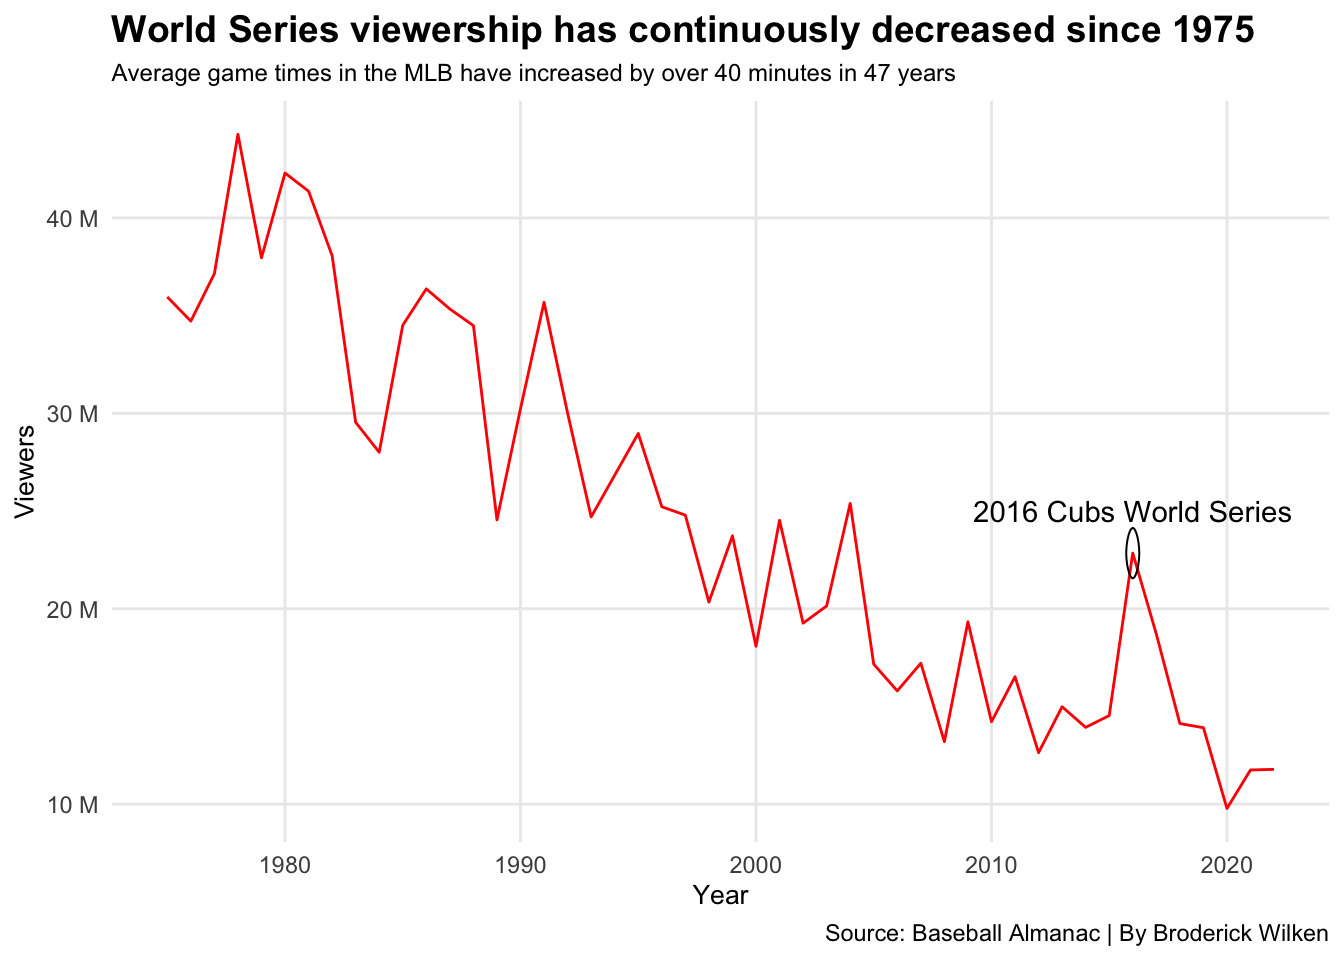
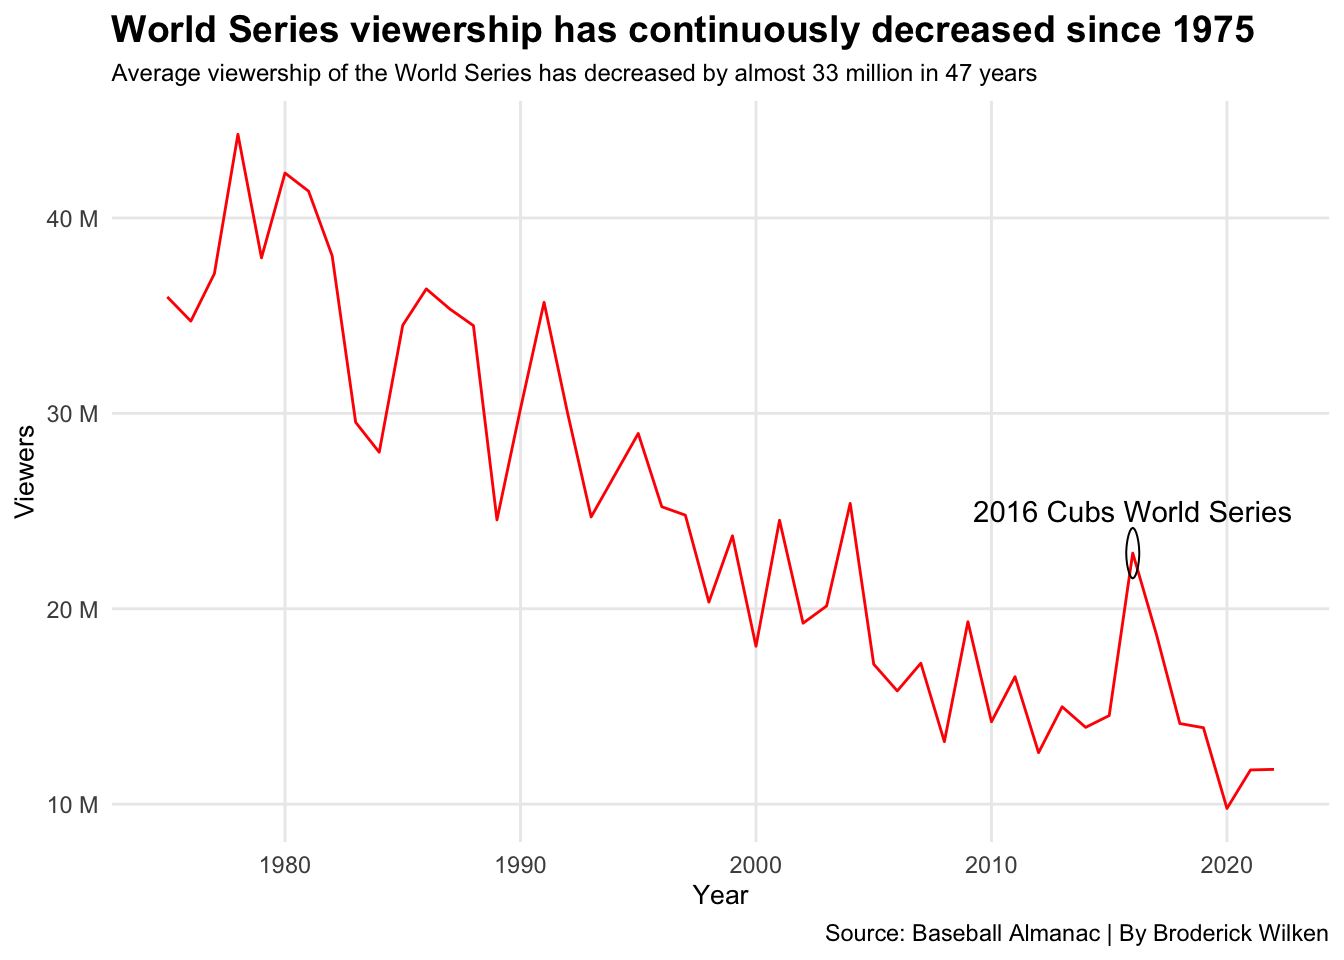
Subtitle Fix
Captions and Subtitles fixed

Changed region(s): [[0.1562, 0.0625, 0.7812, 0.0938]]

diff --git a/posts/how-the-pitch-clock-will-save-baseball/index.html b/posts/how-the-pitch-clock-will-save-baseball/index.html
@@ -281,8 +281,8 @@ code span.wa { color: #60a0b0; font-weight: bold; font-style: italic; } /* Warni
 <span id="cb1-61"><a href="#cb1-61" aria-hidden="true" tabindex="-1"></a>       <span class="at">caption =</span><span class="st">"Source: Sports Reference | By Broderick Wilken"</span>) <span class="sc">+</span></span>
 <span id="cb1-62"><a href="#cb1-62" aria-hidden="true" tabindex="-1"></a>  <span class="fu">theme_minimal</span>() <span class="sc">+</span></span>
 <span id="cb1-63"><a href="#cb1-63" aria-hidden="true" tabindex="-1"></a>  <span class="fu">theme</span>(</span>
-<span id="cb1-64"><a href="#cb1-64" aria-hidden="true" tabindex="-1"></a>    <span class="at">plot.title =</span> <span class="fu">element_text</span>(<span class="at">size =</span> <span class="dv">16</span>, <span class="at">face =</span> <span class="st">"bold"</span>),</span>
-<span id="cb1-65"><a href="#cb1-65" aria-hidden="true" tabindex="-1"></a>    <span class="at">plot.subtitle =</span> <span class="fu">element_text</span>(<span class="at">size =</span> <span class="dv">10</span>),</span>
+<span id="cb1-64"><a href="#cb1-64" aria-hidden="true" tabindex="-1"></a>    <span class="at">plot.title =</span> <span class="fu">element_text</span>(<span class="at">size =</span> <span class="dv">14</span>, <span class="at">face =</span> <span class="st">"bold"</span>),</span>
+<span id="cb1-65"><a href="#cb1-65" aria-hidden="true" tabindex="-1"></a>    <span class="at">plot.subtitle =</span> <span class="fu">element_text</span>(<span class="at">size =</span> <span class="dv">9</span>),</span>
 <span id="cb1-66"><a href="#cb1-66" aria-hidden="true" tabindex="-1"></a>    <span class="at">axis.title =</span> <span class="fu">element_text</span>(<span class="at">size =</span> <span class="dv">10</span>),</span>
 <span id="cb1-67"><a href="#cb1-67" aria-hidden="true" tabindex="-1"></a>    <span class="at">panel.grid.minor =</span> <span class="fu">element_blank</span>()</span>
 <span id="cb1-68"><a href="#cb1-68" aria-hidden="true" tabindex="-1"></a>  )</span></code><button title="Copy to Clipboard" class="code-copy-button"><i class="bi"></i></button></pre></div>
@@ -302,11 +302,11 @@ code span.wa { color: #60a0b0; font-weight: bold; font-style: italic; } /* Warni
 <span id="cb2-5"><a href="#cb2-5" aria-hidden="true" tabindex="-1"></a>  <span class="fu">scale_y_continuous</span>(<span class="at">labels =</span> scales<span class="sc">::</span><span class="fu">unit_format</span>(<span class="at">unit =</span> <span class="st">"M"</span>, <span class="at">scale =</span> <span class="fl">1e-6</span>)) <span class="sc">+</span></span>
 <span id="cb2-6"><a href="#cb2-6" aria-hidden="true" tabindex="-1"></a>  <span class="fu">labs</span>(<span class="at">y =</span> <span class="st">"Viewers"</span>,</span>
 <span id="cb2-7"><a href="#cb2-7" aria-hidden="true" tabindex="-1"></a>       <span class="at">title =</span> <span class="st">"World Series viewership has continuously decreased since 1975"</span>,</span>
-<span id="cb2-8"><a href="#cb2-8" aria-hidden="true" tabindex="-1"></a>       <span class="at">subtitle =</span> <span class="st">"Average game times in the MLB have increased by over 40 minutes in 47 years"</span>,</span>
+<span id="cb2-8"><a href="#cb2-8" aria-hidden="true" tabindex="-1"></a>       <span class="at">subtitle =</span> <span class="st">"Average viewership of the World Series has decreased by almost 33 million in 47 years"</span>,</span>
 <span id="cb2-9"><a href="#cb2-9" aria-hidden="true" tabindex="-1"></a>       <span class="at">caption =</span><span class="st">"Source: Baseball Almanac | By Broderick Wilken"</span>) <span class="sc">+</span></span>
 <span id="cb2-10"><a href="#cb2-10" aria-hidden="true" tabindex="-1"></a>  <span class="fu">theme_minimal</span>() <span class="sc">+</span></span>
 <span id="cb2-11"><a href="#cb2-11" aria-hidden="true" tabindex="-1"></a>  <span class="fu">theme</span>(</span>
-<span id="cb2-12"><a href="#cb2-12" aria-hidden="true" tabindex="-1"></a>    <span class="at">plot.title =</span> <span class="fu">element_text</span>(<span class="at">size =</span> <span class="dv">13</span>, <span class="at">face =</span> <span class="st">"bold"</span>),</span>
+<span id="cb2-12"><a href="#cb2-12" aria-hidden="true" tabindex="-1"></a>    <span class="at">plot.title =</span> <span class="fu">element_text</span>(<span class="at">size =</span> <span class="dv">14</span>, <span class="at">face =</span> <span class="st">"bold"</span>),</span>
 <span id="cb2-13"><a href="#cb2-13" aria-hidden="true" tabindex="-1"></a>    <span class="at">plot.subtitle =</span> <span class="fu">element_text</span>(<span class="at">size =</span> <span class="dv">9</span>),</span>
 <span id="cb2-14"><a href="#cb2-14" aria-hidden="true" tabindex="-1"></a>    <span class="at">axis.title =</span> <span class="fu">element_text</span>(<span class="at">size =</span> <span class="dv">10</span>),</span>
 <span id="cb2-15"><a href="#cb2-15" aria-hidden="true" tabindex="-1"></a>    <span class="at">panel.grid.minor =</span> <span class="fu">element_blank</span>()</span>

diff --git a/index.html b/index.html
@@ -171,7 +171,7 @@ ul.task-list li input[type="checkbox"] {
 
 <div class="quarto-listing quarto-listing-container-default" id="listing-listing">
 <div class="list quarto-listing-default">
-<div class="quarto-post image-right" data-index="0" data-categories="baseball,MLB,pitch clock" data-listing-date-sort="1683435600000" data-listing-file-modified-sort="1683521495283" data-listing-reading-time-sort="6.11">
+<div class="quarto-post image-right" data-index="0" data-categories="baseball,MLB,pitch clock" data-listing-date-sort="1683435600000" data-listing-file-modified-sort="1683672129383" data-listing-reading-time-sort="6.11">
 <div class="thumbnail">
 <p><a href="./posts/how-the-pitch-clock-will-save-baseball/index.html"> <img src="./posts/how-the-pitch-clock-will-save-baseball/image.png" class="thumnail-image"> </a></p>
 </div>
